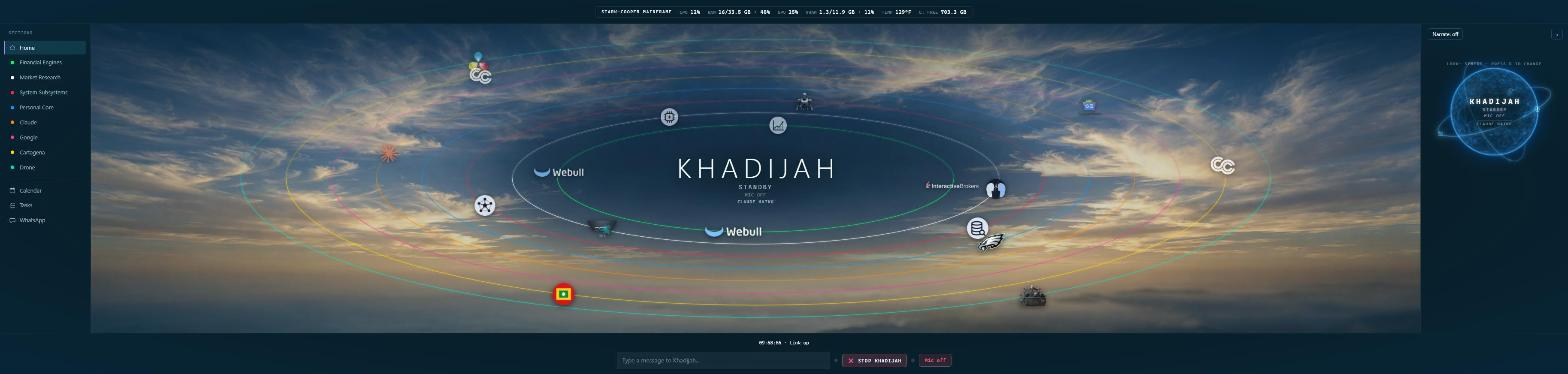
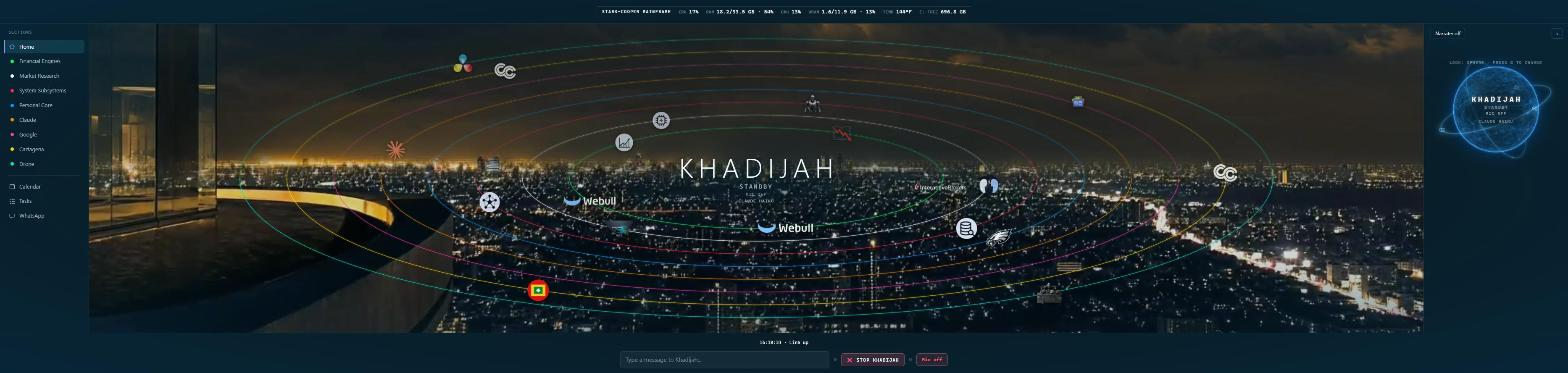
Showcase: planet look on the standby screen, current wording
Claude-Session: https://claude.ai/code/session_01A6NYEtFVKEPq5Hsp4mHQm8

diff --git a/README.md b/README.md
@@ -19,7 +19,7 @@ You talk to her, or type to her. She thinks with Claude, answers out loud in her
 | **Brains** | Claude Haiku by default, Sonnet or Gemini by voice; hard questions move to Sonnet on their own (model routing), with an hourly cap; falls back gracefully when a model fails |
 | **The dashboard** | A window of sections: a menu down the left, a stage in the middle, a panel on the right with her globe (name, state, model) and a dock along the bottom. Home shows glowing rings, one per group, with each group's node logos riding its ring; every node opens its own card on the stage; a Claude plan-limit card shows usage and spend, and its node wears a red halo, and the menu shows the percentage blinking in red, when the session or the week is at 90 percent |
 | **Calendar and tasks** | Your Google Calendar month on screen: click a day to add an event, click an event to change or delete it, and it is saved straight to Google. Tasks are ticked, added, edited and deleted by mouse or by voice ("add task buy milk", "undo that") |
-| **Money, read-only** | Interactive Brokers and Webull balances and positions as reports, graded from strong to critical. Nothing can ever place a trade, and an automated check enforces it |
+| **Money, read-only** | Interactive Brokers and Webull balances and positions as reports, graded from strong to critical; one click asks a Claude project to pull the live positions, read the news on the movers and write a thesis and a pro's read for each, with the broker access and limits that project's own instructions set. Khadijah's own code never places a trade, and an automated check enforces it |
 | **Local life** | Weather in °F, currency outlook and local alerts; the Cartagena news card draws the dollar's recent trend as a line chart, oldest rate at the left, newest at the right, with the span of days beside it; films showing nearby with posters and English synopses; five pro teams' scores and standings |
 | **WhatsApp** | Every chat on one screen with its own reply box; voice notes are written out as text on the PC, messages show in English and replies go out in the contact's language; a morning brief arrives on the phone at 7 AM |
 | **The machine** | Live CPU, memory, GPU and disk readout; a disk auditor with a preview-first junk cleaner; a Wi-Fi map that flags unknown devices and links to the router to check them; a weekly security check for Node.js and Python packages, which she also runs when asked |
@@ -55,9 +55,9 @@ Home is the first screen: the menu of sections down the left, the groups' nodes 
 
 ![The Google News card](images/khadijah-google-news.png)
 
-**Every part of the screen, labelled in plain words.**
+**Every part of the screen, labeled in plain words.**
 
-![What is on the screen, labelled](images/whats-on-the-screen.png)
+![What is on the screen, labeled](images/whats-on-the-screen.png)
 
 ## How it is built
 
@@ -66,7 +66,7 @@ Home is the first screen: the menu of sections down the left, the groups' nodes 
 | Part | Built with |
 |---|---|
 | Server | Python 3.12, FastAPI, WebSocket; split into routes, services and model clients |
-| Dashboard | Plain JavaScript with no build step, a glass-panel design system, three.js only for the turning sphere of her globe |
+| Dashboard | Plain JavaScript with no build step, a glass-panel design system, three.js only for her globe, a turning glass planet with orbit rings |
 | Models | Anthropic API (Claude Haiku and Sonnet), Google Gemini, with routing, fallbacks and rate limits |
 | Voice | F5-TTS running on the graphics card in its own Python environment; ElevenLabs as the alternative |
 | WhatsApp | A Node.js bridge on Baileys, supervised and restarted by the server |
@@ -90,4 +90,4 @@ Khadijah began from Julian Ivanov's open-source jarvis-voice-assistant template 
 
 © 2026 Rafiq Mateen. All rights reserved.
 
-<!-- 4a-fingerprint: 8edcbdba8c3eaddf -->
+<!-- 4a-fingerprint: d913b62619c4d973 -->
